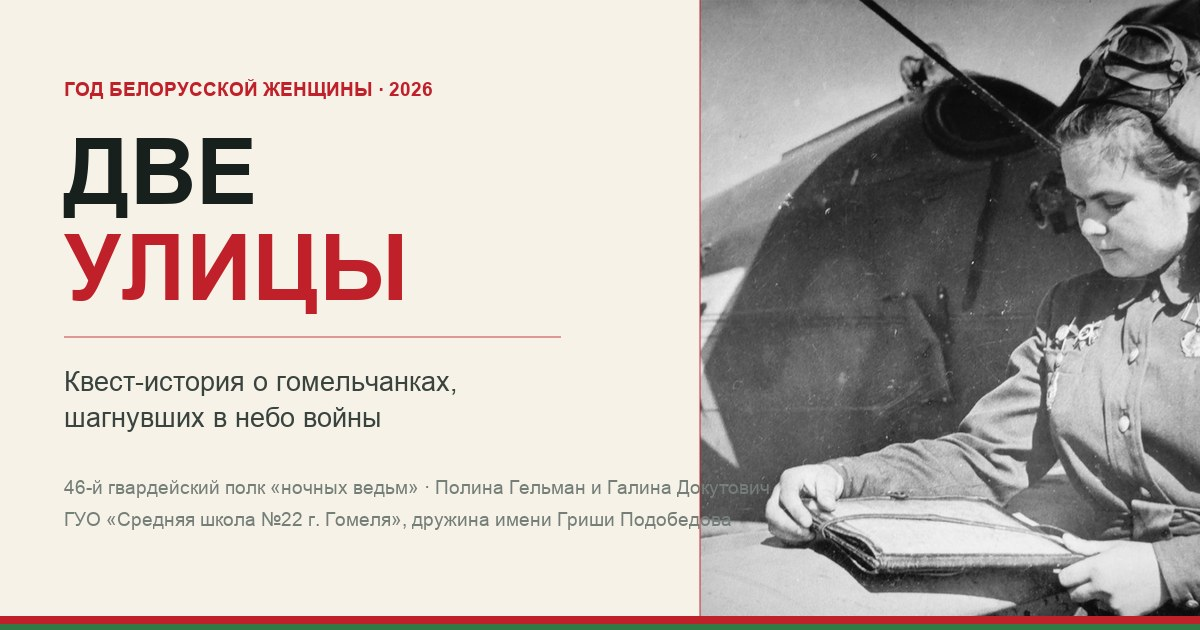
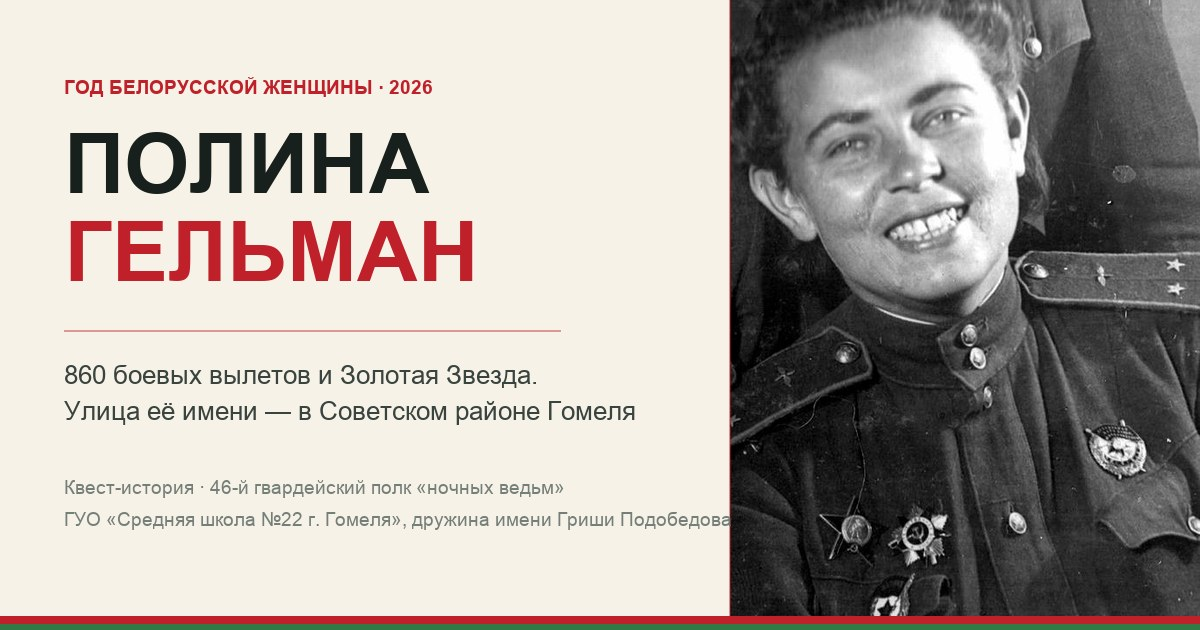
Одна героиня: Полина Гельман. Новое название, 6 остановок квеста, обновлены OG и README

diff --git a/js/data.js b/js/data.js
@@ -1,21 +1,21 @@
-/* Контент виртуальной выставки «Две улицы».
+/* Контент виртуальной выставки «Улица Полины Гельман».
    Все факты сверены с источниками из раздела DATA.sources.
    Фотографии — только со свободными лицензиями (см. подписи). */
 
 const DATA = {
   meta: {
-    title: "Две улицы",
-    subtitle: "Квест-история о гомельчанках, шагнувших в небо войны",
+    title: "Улица Полины Гельман",
+    subtitle: "Квест-история о гомельчанке, шагнувшей в небо войны",
     kicker: "Виртуальная выставка · Год белорусской женщины · 2026",
-    lead: "В Советском районе Гомеля есть улица Полины Гельман. Неподалёку — улица Докутович. Две улицы, две подруги, две судьбы, соединённые одним небом: 46-м гвардейским полком ночных бомбардировщиков, который враг называл «ночными ведьмами».",
+    lead: "В Советском районе Гомеля есть улица Полины Гельман. Всего 760 метров — и за этим именем судьба девушки, которая ушла на фронт штурманом и вернулась Героем Советского Союза.",
     hashtags: ["#ГодБелорусскойЖенщины", "#образженщины_героини", "#пионериягомельщины"]
   },
 
   stats: [
     { value: "860", label: "боевых вылетов Полины Гельман" },
     { value: "113 т", label: "бомб, сброшенных на позиции врага" },
-    { value: "136", label: "боевых вылетов Галины Докутович" },
-    { value: "2", label: "улицы в Гомеле — по одной на каждую подругу" }
+    { value: "1946", label: "год присвоения звания Героя Советского Союза" },
+    { value: "760 м", label: "длина улицы её имени в Советском районе Гомеля" }
   ],
 
   heroines: [
@@ -31,34 +31,18 @@ const DATA = {
       facts: [
         "Родилась 24 октября 1919 года в Бердичеве. После гибели отца семья переехала в Гомель.",
         "В Гомеле окончила школу и занималась в городском аэроклубе.",
+        "До войны успела окончить три курса исторического факультета МГУ.",
         "За годы войны совершила 860 боевых вылетов и сбросила 113 тонн бомб.",
         "Звание Героя Советского Союза присвоено 15 мая 1946 года.",
-        "В Советском районе Гомеля её именем названа улица."
-      ]
-    },
-    {
-      id: "dokutovich",
-      name: "Галина Ивановна Докутович",
-      years: "1921–1943",
-      role: "Штурман 46-го гвардейского ночного бомбардировочного авиационного полка. Гвардии младший лейтенант",
-      photo: "assets/photos/dokutovich-mural.jpg",
-      photoAlt: "Мурал с портретом Галины Докутович и самолётами По-2 на доме в Гомеле",
-      credit: "Фото мурала: Farmazon2025, CC0",
-      tag: "Погибла в 22 года",
-      facts: [
-        "Родилась 20 февраля 1921 года в Гомеле — коренная гомельчанка.",
-        "Училась в одной школе с Полиной Гельман; вместе с ней уехала в Москву.",
-        "Совершила 136 боевых вылетов, летала и на тяжёлом транспортном самолёте ТБ-3.",
-        "Погибла в августе 1943 года на Кубани, в Краснодарском крае.",
-        "Её именем названа улица в Гомеле, на доме — портрет лётчицы и самолёты По-2."
+        "После войны стала кандидатом экономических наук и преподавала. В Советском районе Гомеля её именем названа улица."
       ]
     }
   ],
 
   quest: {
     kicker: "Квест",
-    title: "Семь остановок одной судьбы",
-    intro: "Квест начинается на улице Полины Гельман в Советском районе Гомеля. Открывайте остановки одну за другой, читайте историю и проверяйте себя одним вопросом. Семь пройденных остановок — и вы знаете, почему у этой улицы такое имя.",
+    title: "Шесть остановок одной судьбы",
+    intro: "Квест начинается на улице Полины Гельман в Советском районе Гомеля. Открывайте остановки одну за другой, читайте историю и проверяйте себя одним вопросом. Шесть пройденных остановок — и вы знаете, почему у этой улицы такое имя.",
     stops: [
       {
         n: 1,
@@ -78,7 +62,7 @@ const DATA = {
         title: "Небо начинается с аэроклуба",
         years: "1930-е",
         place: "Гомельский городской аэроклуб",
-        text: "В Гомеле Полина записалась в городской аэроклуб. Она прыгала с парашютом и здесь впервые поднялась в небо на самолёте. Тогда страна учила молодёжь летать, и романтика неба была общей: аэроклубы открывались по всей стране. Никто из гомельских мальчишек и девчонок ещё не знал, что эти навыки очень скоро спасут не одну жизнь.",
+        text: "В Гомеле Полина записалась в городской аэроклуб. Она прыгала с парашютом и здесь впервые поднялась в небо на самолёте. Тогда страна учила молодёжь летать, и романтика неба была общей: аэроклубы открывались по всей стране. Никто ещё не знал, что эти навыки очень скоро спасут не одну жизнь.",
         question: {
           q: "Что Полина сделала впервые в гомельском аэроклубе?",
           options: ["Собрала собственный самолёт", "Прыгнула с парашютом и полетела на самолёте", "Стала инструктором аэроклуба"],
@@ -91,7 +75,7 @@ const DATA = {
         title: "Москва, университет — и война",
         years: "до 1941",
         place: "Московский государственный университет",
-        text: "Вместе с подругой и одноклассницей Галиной Докутович Полина уехала учиться в Москву — на исторический факультет Московского государственного университета. До войны она успела окончить три курса. А в октябре 1941 года ушла в Красную Армию. Девушку, мечтавшую о науке, ждали краткосрочные курсы в Энгельсской школе военных лётчиков.",
+        text: "После школы Полина уехала учиться в Москву — на исторический факультет Московского государственного университета. До войны она успела окончить три курса. А в октябре 1941 года ушла в Красную Армию. Девушку, мечтавшую о науке, ждали краткосрочные курсы в Энгельсской школе военных лётчиков.",
         question: {
           q: "Куда поехала учиться Полина Гельман?",
           options: ["В Ленинград, в лётное училище", "В Москву, на исторический факультет МГУ", "В Киев, на медицинский факультет"],
@@ -102,7 +86,7 @@ const DATA = {
       {
         n: 4,
         title: "Полк «ночных ведьм»",
-        years: "1941–1943",
+        years: "1941–1945",
         place: "46-й гвардейский ночной бомбардировочный авиационный полк",
         text: "Полина Гельман стала штурманом 46-го гвардейского Таманского женского полка ночных бомбардировщиков и начальником связи авиационной эскадрильи. Полк летал на лёгких самолётах По-2: фанерный биплан, открытая кабина, ночь и очень низкая высота. Фашисты панически боялись этих девушек и прозвали их «ночными ведьмами».",
         question: {
@@ -122,25 +106,12 @@ const DATA = {
           q: "Сколько боевых вылетов на счету Полины Гельман?",
           options: ["136", "860", "1 200"],
           answer: 1,
-          explain: "К маю 1945 года Полина Гельман совершила 860 боевых вылетов. Число 136 — это боевые вылеты её подруги Галины Докутович."
+          explain: "К маю 1945 года Полина Гельман совершила 860 боевых вылетов."
         }
       },
       {
         n: 6,
-        title: "Подруга",
-        years: "1921–1943",
-        place: "улица Докутович, Гомель",
-        text: "Галина Докутович родилась в Гомеле 20 февраля 1921 года. Они с Полиной учились в одной школе и вместе уехали в Москву. Галина тоже стала штурманом 46-го гвардейского полка: 136 боевых вылетов, в том числе ответственные полёты на тяжёлом транспортном самолёте ТБ-3. В августе 1943 года она погибла на территории Краснодарского края — ей был всего 21 год. Домой Галина не вернулась, но вернулась память: в Гомеле есть улица Докутович, а на стене дома на этой улице — её портрет и самолёты По-2.",
-        question: {
-          q: "Что случилось с Галиной Докутович?",
-          options: ["Она вернулась в Гомель после войны", "Она погибла в августе 1943 года", "Она попала в плен и была освобождена"],
-          answer: 1,
-          explain: "Галина Докутович погибла в августе 1943 года на территории Краснодарского края. Её именем названа улица в Гомеле."
-        }
-      },
-      {
-        n: 7,
-        title: "Золотая Звезда и две улицы",
+        title: "Золотая Звезда и улица",
         years: "1945–2005",
         place: "улица Полины Гельман, Советский район",
         text: "15 мая 1946 года Полине Гельман присвоили звание Героя Советского Союза с вручением ордена Ленина и медали «Золотая Звезда». Она осталась в армии до 1957 года, окончила Военный институт иностранных языков, стала кандидатом экономических наук и преподавала. Полины Владимировны не стало 29 ноября 2005 года, похоронена она в Москве, на Новодевичьем кладбище. А в Гомеле её имя живёт: 27 февраля 2015 года улицу 3-ю Проектируемую в Советском районе переименовали в улицу Полины Гельман. Всего 760 метров — но каждый день по ним ходят люди.",
@@ -156,13 +127,11 @@ const DATA = {
 
   chronicle: [
     { date: "24 октября 1919", title: "Родилась Полина Гельман", text: "Бердичев, Житомирская область. Вскоре после гибели отца семья переезжает в Гомель." },
-    { date: "20 февраля 1921", title: "Родилась Галина Докутович", text: "Гомель. Будущая лётчица, подруга и одноклассница Полины." },
     { date: "1930-е", title: "Гомельский аэроклуб", text: "Полина прыгает с парашютом и впервые поднимается в небо на самолёте." },
-    { date: "до 1941", title: "Москва, исторический факультет МГУ", text: "Полина и Галина уезжают учиться в Москву. Полина оканчивает три курса." },
-    { date: "октябрь 1941", title: "Красная Армия", text: "Полина уходит на фронт, оканчивает курсы в Энгельсской школе военных лётчиков." },
-    { date: "1941–1943", title: "Штурман 46-го гвардейского полка", text: "Галина Докутович совершает 136 боевых вылетов, летает и на тяжёлом ТБ-3." },
-    { date: "август 1943", title: "Гибель Галины Докутович", text: "Галина погибает на территории Краснодарского края. Ей был 21 год." },
-    { date: "май 1945", title: "860 боевых вылетов", text: "Полина Гельман заканчивает войну на Эльбе; последний полёт — над Берлином. Сброшено 113 тонн бомб." },
+    { date: "до 1941", title: "Москва, исторический факультет МГУ", text: "Полина оканчивает три курса исторического факультета." },
+    { date: "октябрь 1941", title: "Красная Армия", text: "Уходит на фронт, оканчивает курсы в Энгельсской школе военных лётчиков." },
+    { date: "1941–1945", title: "Штурман 46-го гвардейского полка", text: "Южный фронт, Кавказ, Крым, Беларусь, Польша, Германия. Штурман и начальник связи эскадрильи." },
+    { date: "май 1945", title: "860 боевых вылетов", text: "Полина заканчивает войну на Эльбе; последний полёт — над Берлином. Сброшено 113 тонн бомб." },
     { date: "15 мая 1946", title: "Золотая Звезда", text: "Полине Гельман присвоено звание Героя Советского Союза." },
     { date: "1957", title: "Окончание службы", text: "Полина Владимировна служила в армии до 1957 года, окончила Военный институт иностранных языков." },
     { date: "1970", title: "Кандидат экономических наук", text: "Полина Гельман защищает диссертацию и преподаёт." },
@@ -178,24 +147,24 @@ const DATA = {
     },
     {
       title: "Мемориальная доска на политехническом колледже",
-      meta: "Бывшая школа, где учились подруги",
-      text: "В здании, где сейчас работает Гомельский политехнический колледж, Полина Гельман и Галина Докутович учились. У входа — мемориальная доска в честь Полины Гельман, а на здании техникума установлена доска в честь Галины Докутович."
+      meta: "Бывшая школа, где училась Полина",
+      text: "В здании, где сейчас работает Гомельский политехнический колледж, Полина Гельман училась. У входа установлена мемориальная доска в её честь."
     },
     {
-      title: "Улица Докутович и мурал",
-      meta: "Память на фасаде дома",
-      text: "В Гомеле есть улица Докутович. На торце многоэтажки на этой улице — огромный портрет Галины и самолёты По-2. Ежегодно в день её рождения, 20 февраля, учащиеся проводят торжественные линейки и возлагают цветы."
+      title: "Гомельский аэроклуб",
+      meta: "Место, где началось её небо",
+      text: "В 1930-е годы Полина занималась в Гомельском городском аэроклубе: прыгала с парашютом и впервые поднялась в воздух. Именно отсюда начался её путь в военную авиацию."
     },
     {
       title: "Гомельский областной музей военной славы",
       meta: "Хранитель истории гомельчанок",
-      text: "Музей рассказывает о гомельчанках — героинях Великой Отечественной войны. Материалы о Полине Гельман и Галине Докутович собраны здесь и доступны всем, кто хочет узнать больше."
+      text: "Музей рассказывает о гомельчанках — героинях Великой Отечественной войны. Материалы о Полине Гельман собраны здесь и доступны всем, кто хочет узнать больше."
     }
   ],
 
   regiment: {
     title: "Полк, которого боялись по ночам",
-    text: "46-й гвардейский ночной бомбардировочный авиационный полк был женским. Его лётчицы летали на лёгких самолётах По-2 — тихоходных и почти беззащитных, зато способных подойти к цели на предельно малой высоте. Немецкие солдаты называли их «ночными ведьмами». В этом полку служили обе наши героини — Полина Гельман и Галина Докутович.",
+    text: "46-й гвардейский ночной бомбардировочный авиационный полк был женским. Его лётчицы летали на лёгких самолётах По-2 — тихоходных и почти беззащитных, зато способных подойти к цели на предельно малой высоте. Немецкие солдаты называли их «ночными ведьмами». В этом полку служила и Полина Гельман.",
     photos: [
       { src: "assets/photos/po2.jpg", alt: "Штурман 46-го гвардейского полка у самолёта По-2", caption: "Штурман 46-го гвардейского полка Е. В. Рябова у самолёта По-2. Фотохроника ТАСС, фотограф Е. Халдей. Общественное достояние." },
       { src: "assets/photos/polk-1943.jpg", alt: "Лётчицы 46-го гвардейского полка, 1943 год", caption: "Евдокия Бершанская, Полина Гельман и Смирнова. 1943 год. Викисклад, CC BY 4.0." },
@@ -215,7 +184,7 @@ const DATA = {
 
   work: {
     title: "О конкурсной работе",
-    text: "Выставка «Две улицы» подготовлена для областного конкурса ОО «БРПО» «Гордость Беларуси: образ женщины» (квест-история) в номинации №1 «Женщина-герой».",
+    text: "Выставка «Улица Полины Гельман» подготовлена для областного конкурса ОО «БРПО» «Гордость Беларуси: образ женщины» (квест-история) в номинации №1 «Женщина-герой».",
     items: [
       { k: "Номинация", v: "№1 «Женщина-герой» — история о женщине-герое малой родины" },
       { k: "Организатор", v: "Гомельский областной Совет ОО «БРПО»" },
@@ -237,11 +206,10 @@ const DATA = {
     { title: "Полина Гельман — биография", publisher: "Гомельский историко-краеведческий портал «Улицы Гомеля»", url: "https://street.gomelhistory.by/ix-imenami-nazvany-ulicy-gomelya/gelman-polina-vladimirovna/" },
     { title: "Улица Полины Гельман в Гомеле", publisher: "Гомельский историко-краеведческий портал «Улицы Гомеля»", url: "https://street.gomelhistory.by/ulicy-goroda-gomel/ulicy-gomelya-na-bukvu-p/poliny-gelman-ulica/" },
     { title: "Гомельчанки на войне: сила слабых", publisher: "Гомельский областной музей военной славы, 13.08.2021", url: "http://gomel-region.museum.by/node/57140" },
-    { title: "102 года со дня рождения Галины Докутович", publisher: "Гомельский областной музей военной славы, 20.02.2023", url: "http://gomel-region.museum.by/node/66659" },
     { title: "Час мужества о гомельчанке Полине Гельман", publisher: "ЦСОН Советского района г. Гомеля, 13.05.2026", url: "https://csonsovet.by/603-chas-muzhestva-o-gomelchanke-poline-gelman.html" },
     { title: "Гельман, Полина Владимировна", publisher: "Википедия", url: "https://ru.wikipedia.org/wiki/Гельман,_Полина_Владимировна" },
-    { title: "Докутович, Галина Ивановна", publisher: "Википедия", url: "https://ru.wikipedia.org/wiki/Докутович,_Галина_Ивановна" },
     { title: "К 80-летию со дня гибели партизанского разведчика Гриши Подобедова", publisher: "Чечерский историко-этнографический музей, 19.06.2023", url: "http://xn--80aid7bg.museum.by/node/69151" },
-    { title: "Фотографии героинь и полка", publisher: "Викисклад (Wikimedia Commons), лицензии CC BY 4.0, CC0 и общественное достояние", url: "https://commons.wikimedia.org/" }
+    { title: "Фотографии героини и полка", publisher: "Викисклад (Wikimedia Commons), лицензии CC BY 4.0 и общественное достояние", url: "https://commons.wikimedia.org/" },
+    { title: "Орнамент и цвета флага", publisher: "Флаг Республики Беларусь, Викисклад (общественное достояние)", url: "https://commons.wikimedia.org/wiki/File:Flag_of_Belarus.svg" }
   ]
 };

diff --git a/index.html b/index.html
@@ -4,12 +4,12 @@
 <meta charset="utf-8">
 <meta name="viewport" content="width=device-width, initial-scale=1">
 <meta name="theme-color" content="#f7f2e8">
-<title>Две улицы — квест-история о гомельчанках, шагнувших в небо войны</title>
-<meta name="description" content="Виртуальная выставка о гомельчанках Полине Гельман и Галине Докутович — лётчицах 46-го гвардейского полка «ночных ведьм». Квест из семи остановок. Год белорусской женщины, 2026.">
+<title>Улица Полины Гельман — квест-история о гомельчанке, шагнувшей в небо войны</title>
+<meta name="description" content="Виртуальная выставка о гомельчанке Полине Гельман — штурмане 46-го гвардейского полка «ночных ведьм», Герое Советского Союза. Квест из шести остановок. Год белорусской женщины, 2026.">
 <meta name="author" content="Терещенко Матвей, 5 «В» класс, ГУО «Средняя школа №22 г. Гомеля»">
 <meta property="og:type" content="website">
-<meta property="og:title" content="Две улицы — квест-история о гомельчанках, шагнувших в небо войны">
-<meta property="og:description" content="Две улицы, две подруги, две судьбы и одно небо. Квест-история к Году белорусской женщины.">
+<meta property="og:title" content="Улица Полины Гельман — квест-история о гомельчанке, шагнувшей в небо войны">
+<meta property="og:description" content="860 боевых вылетов, Золотая Звезда и улица в Советском районе Гомеля. Квест-история к Году белорусской женщины.">
 <meta property="og:locale" content="ru_RU">
 <meta property="og:image" content="assets/og.jpg">
 <meta name="twitter:card" content="summary_large_image">
@@ -31,11 +31,11 @@
         <path d="M8 22 L32 12" stroke="currentColor" stroke-width="1.6" fill="none" opacity=".55"/>
         <path d="M20 6 L24 17 L36 17 L26 24 L30 35 L20 28 L10 35 L14 24 L4 17 L16 17 Z" fill="currentColor" opacity=".9"/>
       </svg>
-      <span><b>Две улицы</b><i>Год белорусской женщины · 2026</i></span>
+      <span><b>Полина Гельман</b><i>Год белорусской женщины · 2026</i></span>
     </a>
     <button class="burger" id="burger" type="button" aria-label="Меню" aria-expanded="false" aria-controls="menu"><span></span><span></span><span></span></button>
     <nav class="menu" id="menu" aria-label="Навигация">
-      <a href="#heroines">Героини</a>
+      <a href="#heroines">Героиня</a>
       <a href="#quest">Квест</a>
       <a href="#chronicle">Хроника</a>
       <a href="#memory">Память</a>
@@ -62,7 +62,7 @@
         <p class="hero__lead" id="heroLead"></p>
         <div class="hero__actions">
           <a class="btn" href="#quest">Пройти квест</a>
-          <a class="btn btn--ghost" href="#heroines">Кто эти женщины</a>
+          <a class="btn btn--ghost" href="#heroines">Кто она</a>
         </div>
         <div class="stats" id="stats"></div>
       </div>
@@ -83,10 +83,10 @@
   <section class="section" id="heroines">
     <div class="shell">
       <div class="sec-head">
-        <p class="caps idx">01 — героини</p>
+        <p class="caps idx">01 — героиня</p>
         <div>
-          <h2>Две подруги из одного класса</h2>
-          <p>Они учились в одной гомельской школе, вместе уехали в Москву и вместе попали в один и тот же женский авиационный полк. Одной суждено было вернуться домой Героем, другой — остаться в небе войны.</p>
+          <h2>Одна судьба — 860 вылетов</h2>
+          <p>Гомельчанка, школьница, студентка исторического факультета — и штурман женского авиационного полка. История одной женщины, в которой поместились война, небо и улица с её именем.</p>
         </div>
       </div>
       <div class="heroines" id="heroinesGrid"></div>
@@ -105,7 +105,7 @@
       <div class="progress" role="status">
         <div class="progress__bar"><span id="progressFill"></span></div>
         <div class="progress__labels">
-          <span id="progressText">Пройдено 0 из 7 остановок</span>
+          <span id="progressText">Пройдено 0 из 6 остановок</span>
           <button class="linkbtn" type="button" id="questReset" hidden>Начать заново</button>
         </div>
       </div>
@@ -211,13 +211,13 @@
     <div class="foot__grid">
       <div>
         <h4>Выставка</h4>
-        <p class="muted">«Две улицы» — квест-история о гомельчанках Полине Гельман и Галине Докутович. Подготовлена к Году белорусской женщины, 2026.</p>
+        <p class="muted">«Улица Полины Гельман» — квест-история о гомельчанке, штурмане 46-го гвардейского полка и Герое Советского Союза. Подготовлена к Году белорусской женщины, 2026.</p>
         <p class="hashtags" id="hashtags"></p>
       </div>
       <div>
         <h4>Разделы</h4>
         <ul>
-          <li><a href="#heroines">Героини</a></li>
+          <li><a href="#heroines">Героиня</a></li>
           <li><a href="#quest">Квест</a></li>
           <li><a href="#chronicle">Хроника</a></li>
           <li><a href="#memory">Память</a></li>

diff --git a/css/style.css b/css/style.css
@@ -186,19 +186,18 @@ a { color: inherit; }
 .sec-head p { color: var(--muted); margin: 12px 0 0; max-width: 72ch; }
 
 /* ——— героини ——— */
-.heroines { display: grid; grid-template-columns: repeat(2, 1fr); gap: 24px; }
+.heroines { display: grid; grid-template-columns: 1fr; gap: 24px; }
 .heroine {
   background: var(--white);
   border: 1px solid var(--line-soft);
   border-radius: var(--r);
   overflow: hidden;
-  display: flex;
-  flex-direction: column;
+  display: grid;
+  grid-template-columns: minmax(280px, 400px) 1fr;
   box-shadow: 0 18px 40px -32px rgba(24, 32, 29, .55);
 }
-.heroine__photo { position: relative; aspect-ratio: 4 / 3; overflow: hidden; background: #e9e3d6; }
-.heroine__photo img { width: 100%; height: 100%; object-fit: cover; object-position: center 22%; display: block; }
-.heroine__photo--dokutovich img { object-position: center 46%; }
+.heroine__photo { position: relative; min-height: 100%; overflow: hidden; background: #e9e3d6; }
+.heroine__photo img { position: absolute; inset: 0; width: 100%; height: 100%; object-fit: cover; object-position: center 18%; display: block; }
 .heroine__tag {
   position: absolute; left: 14px; top: 14px;
   background: rgba(255, 253, 248, .95);
@@ -352,6 +351,8 @@ a { color: inherit; }
   .hero__grid { grid-template-columns: 1fr; }
   .hero__media { padding: 0 0 54px 30px; max-width: 620px; }
   .heroines, .cards, .cols { grid-template-columns: 1fr; }
+  .heroine { grid-template-columns: 1fr; }
+  .heroine__photo { aspect-ratio: 4 / 3; min-height: 0; }
   .gallery { grid-template-columns: repeat(2, 1fr); }
   .foot__grid { grid-template-columns: 1fr 1fr; }
   .sec-head { grid-template-columns: 1fr; gap: 8px; }

diff --git a/README.md b/README.md
@@ -1,6 +1,6 @@
-# Две улицы
+# Улица Полины Гельман
 
-Квест-история о гомельчанках **Полине Гельман** и **Галине Докутович** — лётчицах 46-го гвардейского полка «ночных ведьм».
+Квест-история о гомельчанке **Полине Гельман** — штурмане 46-го гвардейского полка «ночных ведьм», Герое Советского Союза.
 
 Конкурсная работа для областного конкурса ОО «БРПО» «Гордость Беларуси: образ женщины» (квест-история), номинация №1 «Женщина-герой».
 ГУО «Средняя школа №22 г. Гомеля», Советский район, пионерская дружина имени Гриши Подобедова. Автор — Терещенко Матвей, 5 «В» класс.
@@ -8,20 +8,21 @@
 ## Что на сайте
 
 - **Первый экран** — фотоколлаж: настоящий самолёт По-2 со штурманом и портрет Полины Гельман. Сверху — лента с белорусским национальным орнаментом и полосами флага.
-- **Героини** — две судьбы: Полина Гельман (Герой Советского Союза, 860 боевых вылетов) и Галина Докутович (погибла в 1943 году).
-- **Квест «Семь остановок одной судьбы»** — маршрут от детства в Гомеле до улицы Полины Гельман в Советском районе. В каждой остановке один вопрос; прогресс сохраняется в браузере.
+- **Героиня** — одна судьба: от гомельской школы и аэроклуба до Золотой Звезды.
+- **Квест «Шесть остановок одной судьбы»** — маршрут от детства в Гомеле до улицы её имени в Советском районе. В каждой остановке один вопрос; прогресс сохраняется в браузере.
 - **Полк «ночных ведьм»** — фотогалерея 46-го гвардейского полка.
-- **Хроника двух судеб** — от 1919 года до 2015 года.
-- **Гомель помнит** — улицы, мемориальные доски, мурал, музей военной славы.
+- **Хроника** — от 1919 года до 2015 года.
+- **Гомель помнит** — улица, мемориальная доска, аэроклуб, музей военной славы.
 - **О Годе белорусской женщины**, о конкурсной работе и **источники**.
 
 ## Файлы
 
 - `index.html` — разметка страницы
-- `css/style.css` — оформление: ночная тема, крупная типографика, маршрут квеста
-- `js/data.js` — весь контент: героини, квест, хроника, источники
+- `css/style.css` — оформление: светлая тема, серифные заголовки, маршрут квеста
+- `js/data.js` — весь контент: героиня, квест, хроника, источники
 - `js/app.js` — сборка страницы, логика квеста, кнопки «поделиться»
 - `assets/photos/` — фотографии с указанием лицензий
+- `assets/ornament.png` — белорусский орнамент для ленты (с флага, общественное достояние)
 - `assets/og.jpg` — картинка для превью в соцсетях
 
 ## Локальный запуск
@@ -47,7 +48,7 @@ GitHub Pages, ветка `main`, каталог `/(root)`. Файл `.nojekyll` 
 | `polk-1943.jpg` | Бершанская, Гельман и Смирнова, 1943 | Викисклад, CC BY 4.0 |
 | `po2.jpg` | Штурман Е. В. Рябова у По-2 (фотограф Е. Халдей) | Общественное достояние |
 | `polk-parade.jpg` | Лётчицы полка перед Парадом Победы (И. Шагин) | Общественное достояние |
-| `dokutovich-mural.jpg` | Мурал Галине Докутович в Гомеле | Farmazon2025, CC0 |
+| `ornament.png` | Орнамент с флага Республики Беларусь | Общественное достояние |
 
 ## Источники фактов
 
